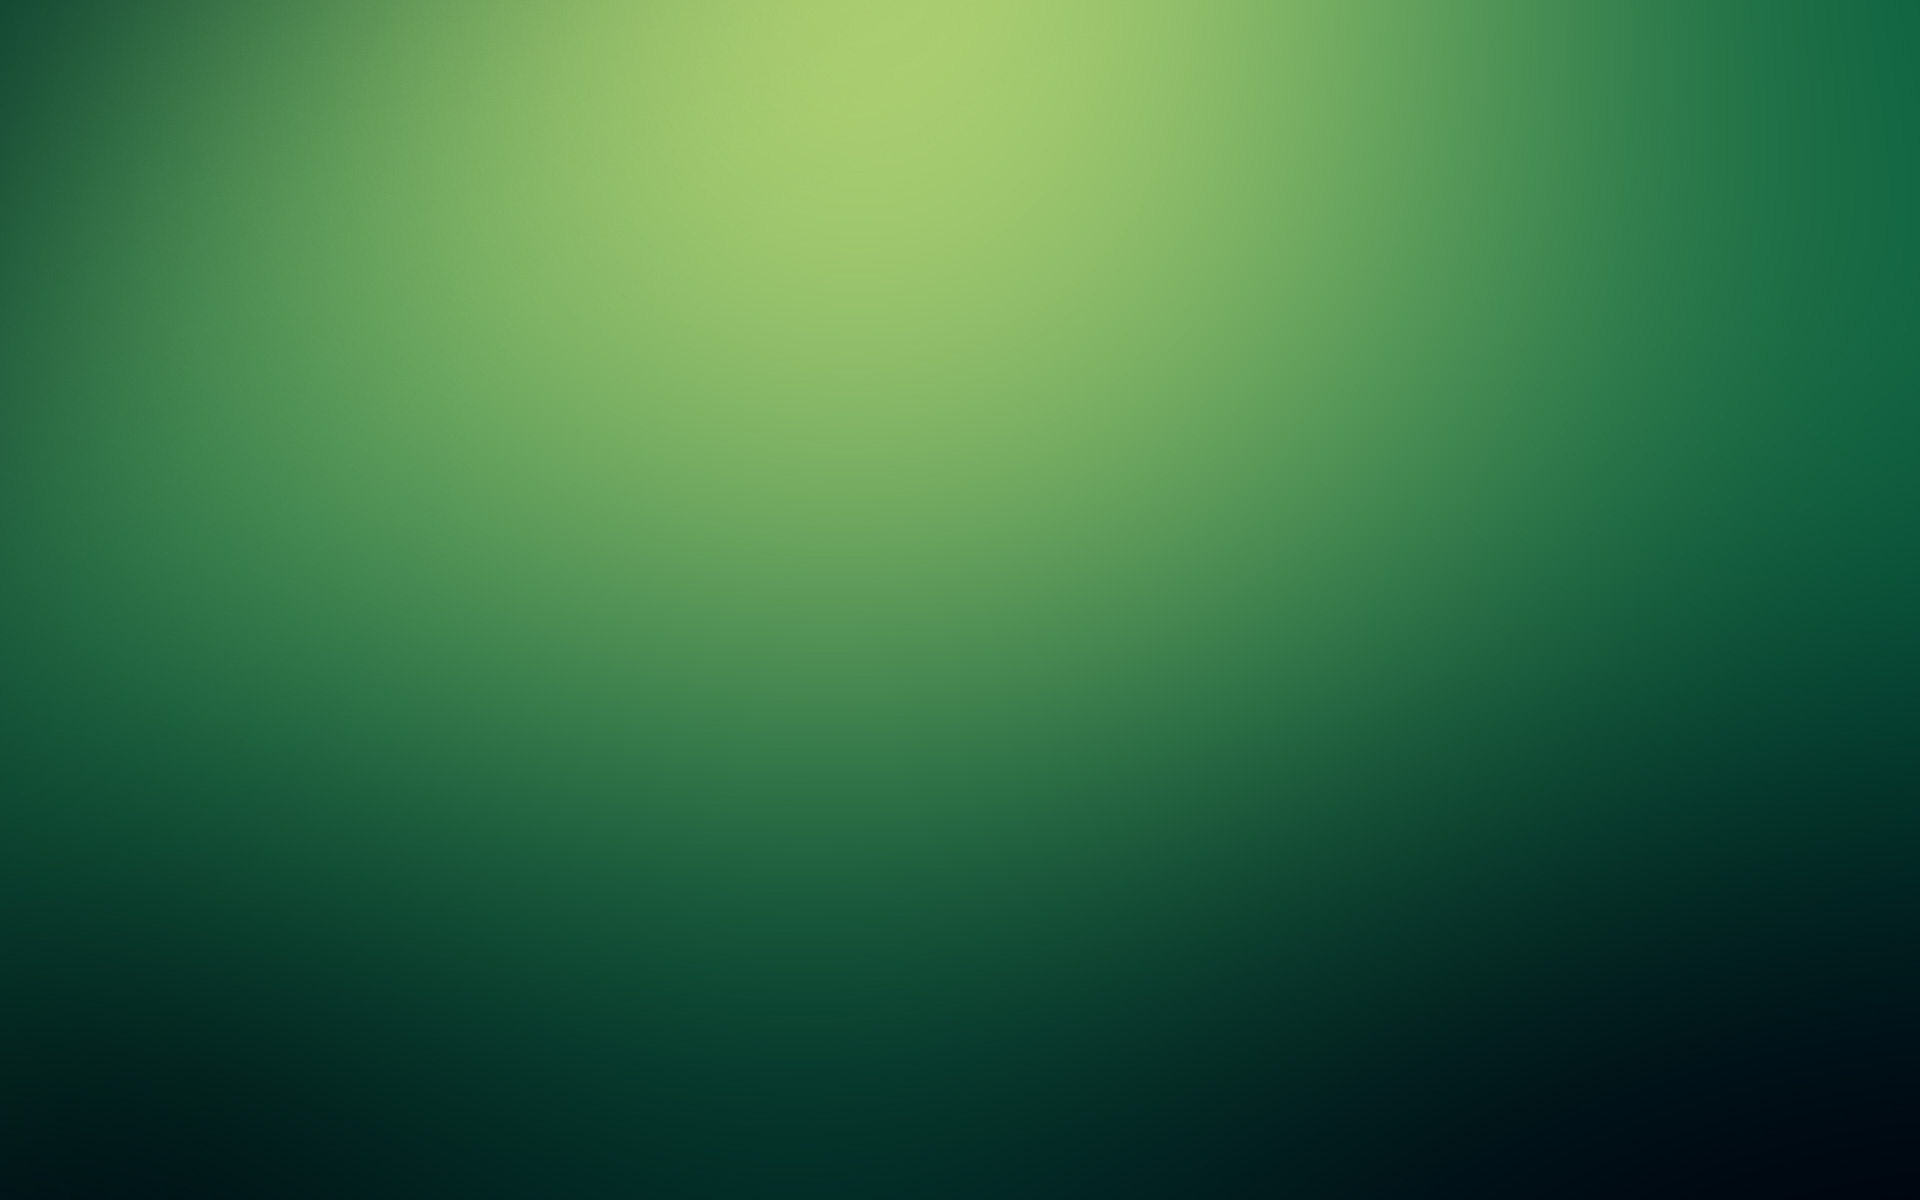
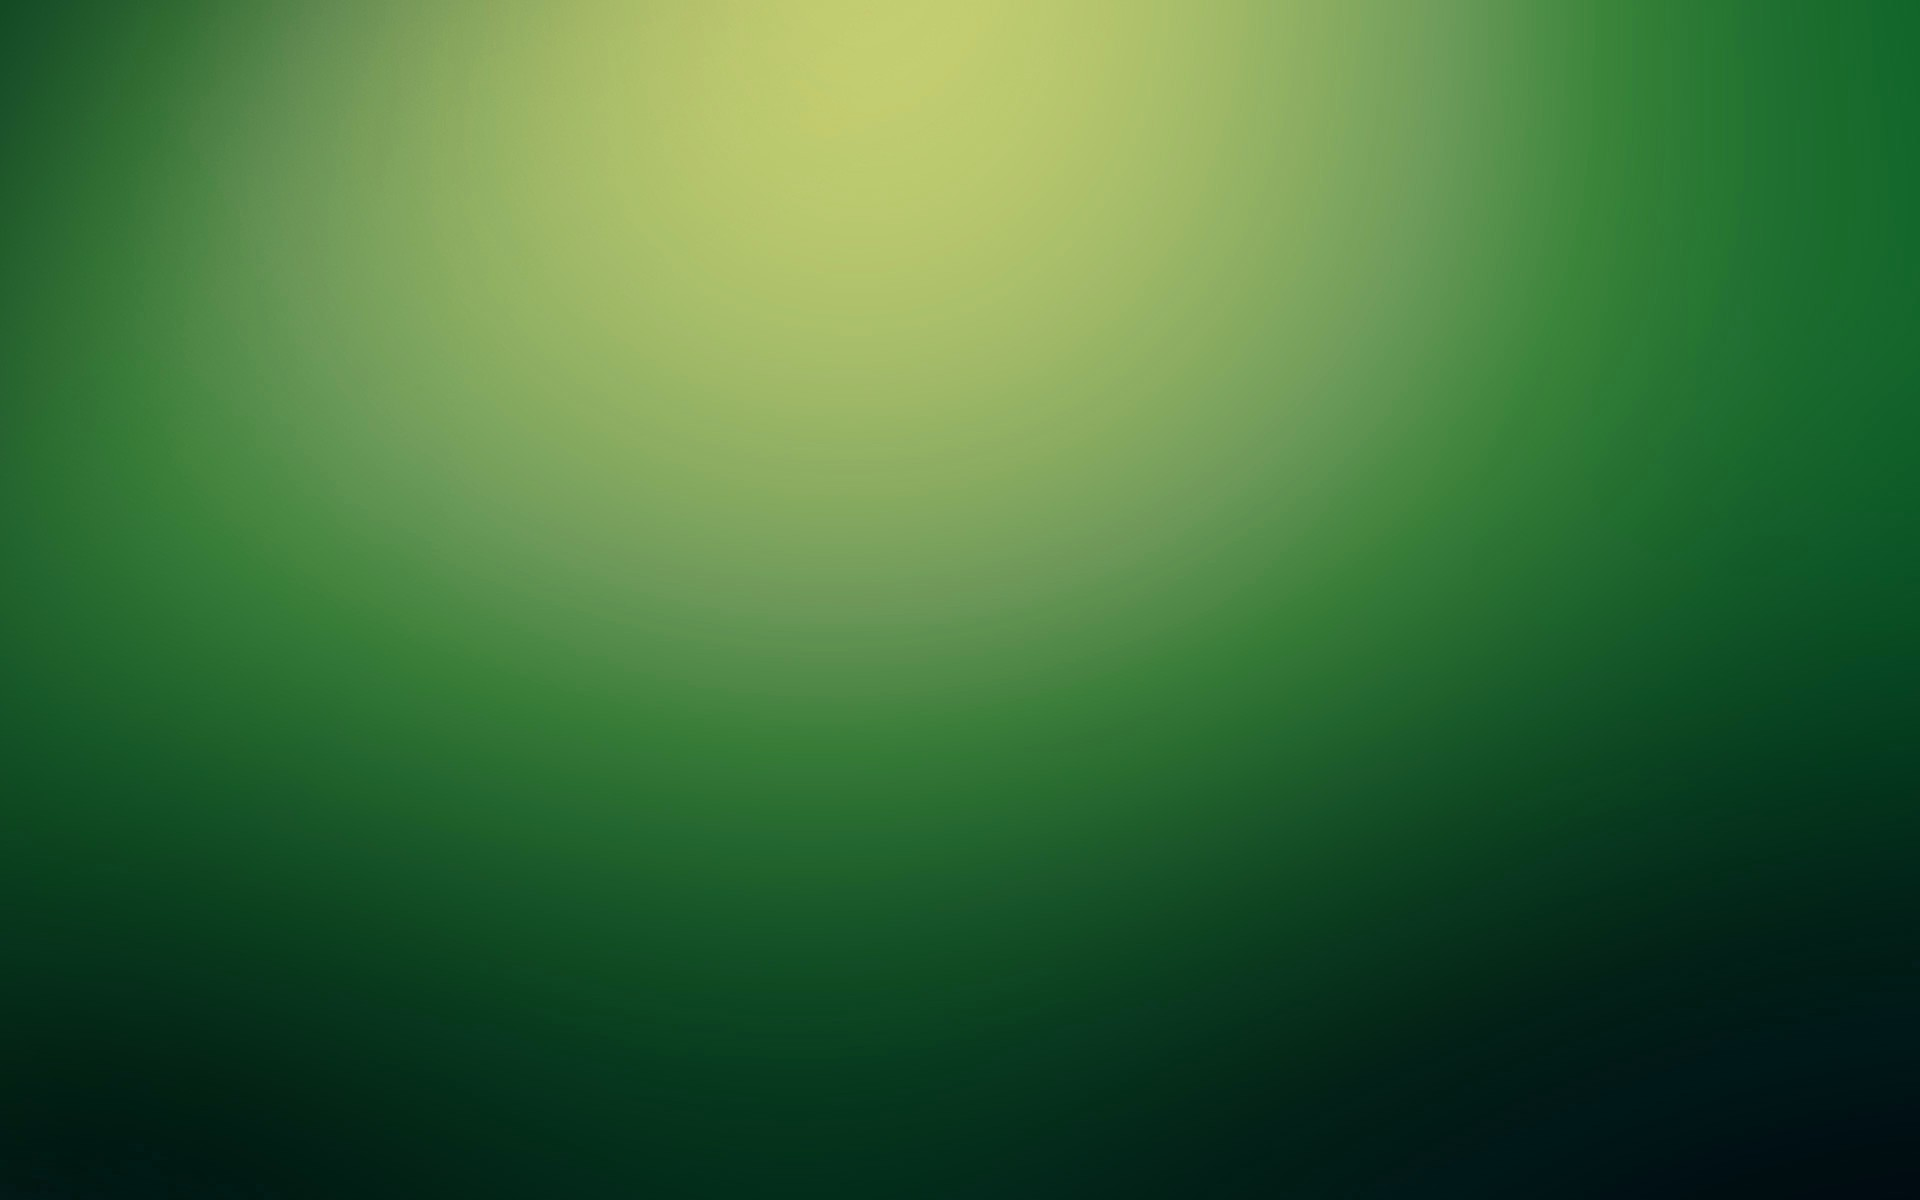
updates

Changed region(s): [[0.3125, 0.0, 0.625, 0.2775]]

diff --git a/public/css/style.css b/public/css/style.css
@@ -1909,6 +1909,11 @@ a.list-group-item.active > .badge,
         background-image: url(../img/body/kiwi.jpg);
     }
 
+    #skin-blur-kiwi-login {
+        background-image: url(../img/body/kiwi_login.jpg);
+    }
+
+
     #skin-blur-nexus {
         background-image: url(../img/body/nexus.jpg);
     }
@@ -2085,6 +2090,10 @@ a.list-group-item.active > .badge,
     }
 
     #skin-blur-kiwi {
+        background: #0f4731;
+    }
+
+    #skin-blur-kiwi-login {
         background: #0f4731;
     }
 

diff --git a/resources/views/auth/login.blade.php b/resources/views/auth/login.blade.php
@@ -17,7 +17,7 @@
         <link href="{{ asset('css/animate.css') }}" rel="stylesheet">
         <link href="{{ asset('css/generics.css') }}" rel="stylesheet">
     </head>
-    <body id="skin-blur-blue">
+    <body id="skin-blur-kiwi-login">
 
     @if (count($errors) > 0)
     <div class="alert alert-danger">

diff --git a/resources/views/master.blade.php b/resources/views/master.blade.php
@@ -41,7 +41,7 @@
 
 
     </head>
-    <body id="skin-blur-blue">
+    <body id="skin-blur-kiwi">
 
         <header id="header" class="media">
             <a href="" id="menu-toggle"></a>
